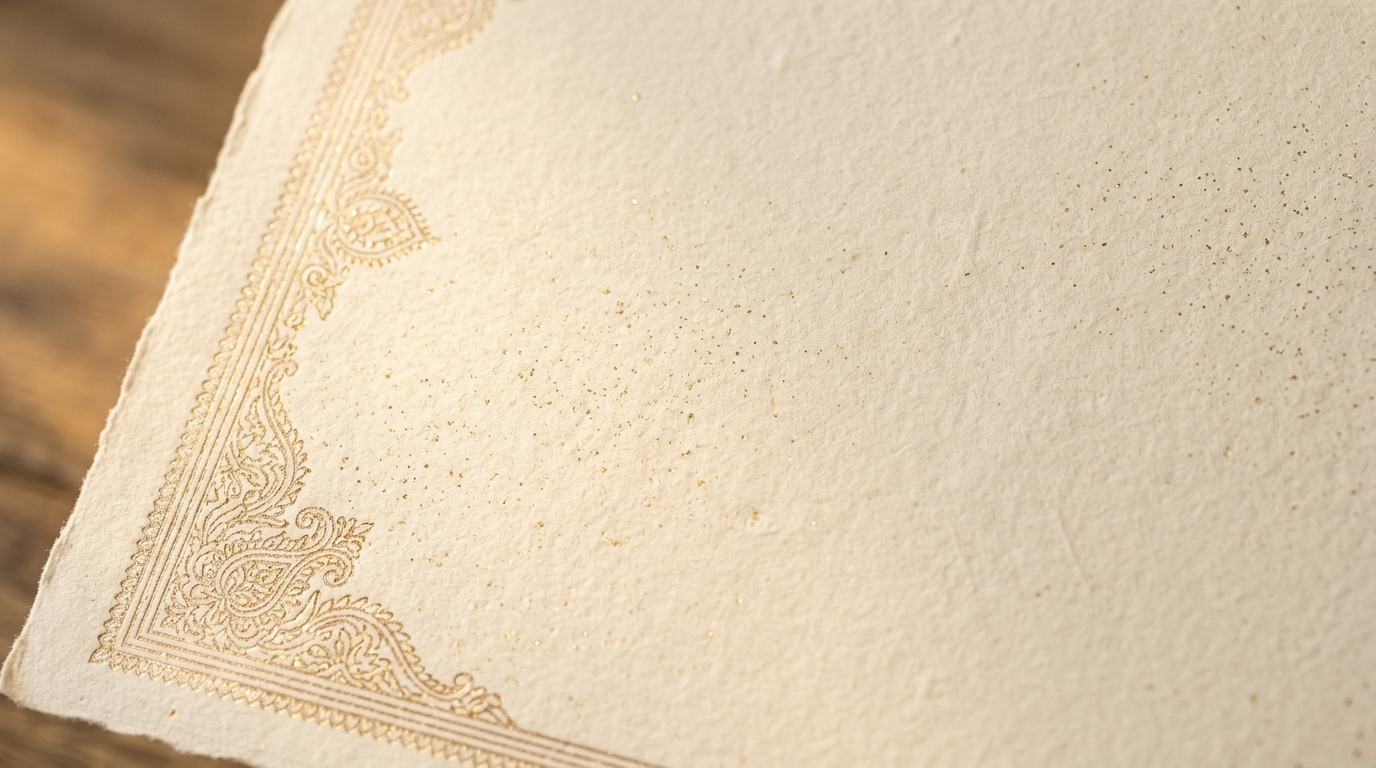
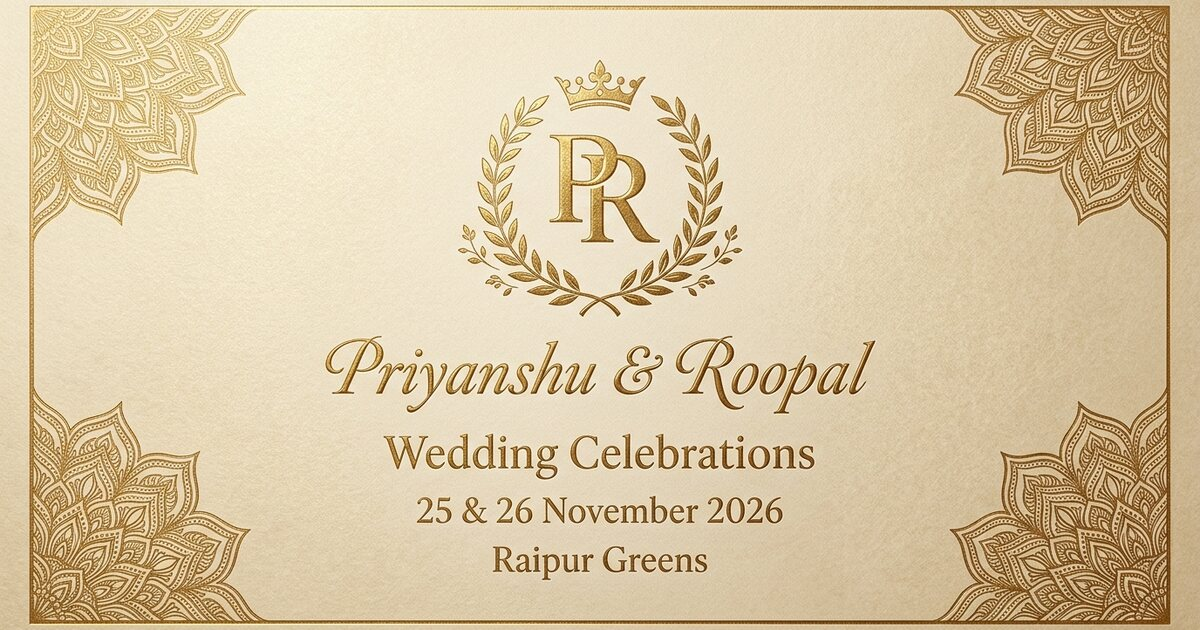
chore: update Open Graph metadata and images
Refined SEO meta tags to ensure better social media sharing previews and updated the site's Open Graph images.

diff --git a/index.html b/index.html
@@ -1,10 +1,12 @@
 <!doctype html>
-<html lang="en">
+<html lang="en" prefix="og: https://ogp.me/ns# fb: https://ogp.me/ns/fb#">
   <head>
     <meta charset="UTF-8" />
     <meta name="viewport" content="width=device-width, initial-scale=1.0" />
+    
+    <!-- Primary Page Title & Meta -->
     <title>Priyanshu & Roopal Wedding Invitation | 25 & 26 November 2026</title>
-    <meta name="title" content="Priyanshu & Roopal Wedding Invitation | 25 & 26 November 2026" />
+    <meta name="title" content="Priyanshu & Roopal Wedding Invitation" />
     <meta name="description" content="Celebrate the wedding of Priyanshu Kocher & Roopal Jain on 25 & 26 November 2026 at Raipur Greens, Raipur." />
     <meta name="author" content="The Kocher Family" />
     <meta name="keywords" content="Priyanshu Kocher, Roopal Jain, Wedding Invitation, Raipur Greens, Indian Wedding, Royal Wedding" />
@@ -12,10 +14,10 @@
 
     <!-- Open Graph / Facebook / WhatsApp Meta Tags -->
     <meta property="og:type" content="website" />
-    <meta property="og:url" content="https://priyanshu-roopal-wedding-invitation.vercel.app/" />
     <meta property="og:site_name" content="Priyanshu & Roopal Wedding" />
     <meta property="og:title" content="Priyanshu & Roopal Wedding Invitation" />
     <meta property="og:description" content="Celebrate the wedding of Priyanshu Kocher & Roopal Jain on 25 & 26 November 2026 at Raipur Greens, Raipur." />
+    <meta property="og:url" content="https://priyanshu-roopal-wedding-invitation.vercel.app/" />
     <meta property="og:image" content="https://priyanshu-roopal-wedding-invitation.vercel.app/og-image.jpg" />
     <meta property="og:image:secure_url" content="https://priyanshu-roopal-wedding-invitation.vercel.app/og-image.jpg" />
     <meta property="og:image:type" content="image/jpeg" />
@@ -23,6 +25,12 @@
     <meta property="og:image:height" content="630" />
     <meta property="og:image:alt" content="Priyanshu & Roopal Wedding Invitation" />
     <meta property="og:locale" content="en_IN" />
+
+    <!-- WhatsApp / Google / Chat App Fallbacks -->
+    <meta itemprop="name" content="Priyanshu & Roopal Wedding Invitation" />
+    <meta itemprop="description" content="Celebrate the wedding of Priyanshu Kocher & Roopal Jain on 25 & 26 November 2026 at Raipur Greens, Raipur." />
+    <meta itemprop="image" content="https://priyanshu-roopal-wedding-invitation.vercel.app/og-image.jpg" />
+    <link rel="image_src" href="https://priyanshu-roopal-wedding-invitation.vercel.app/og-image.jpg" />
 
     <!-- Twitter / X Card Meta Tags -->
     <meta name="twitter:card" content="summary_large_image" />
